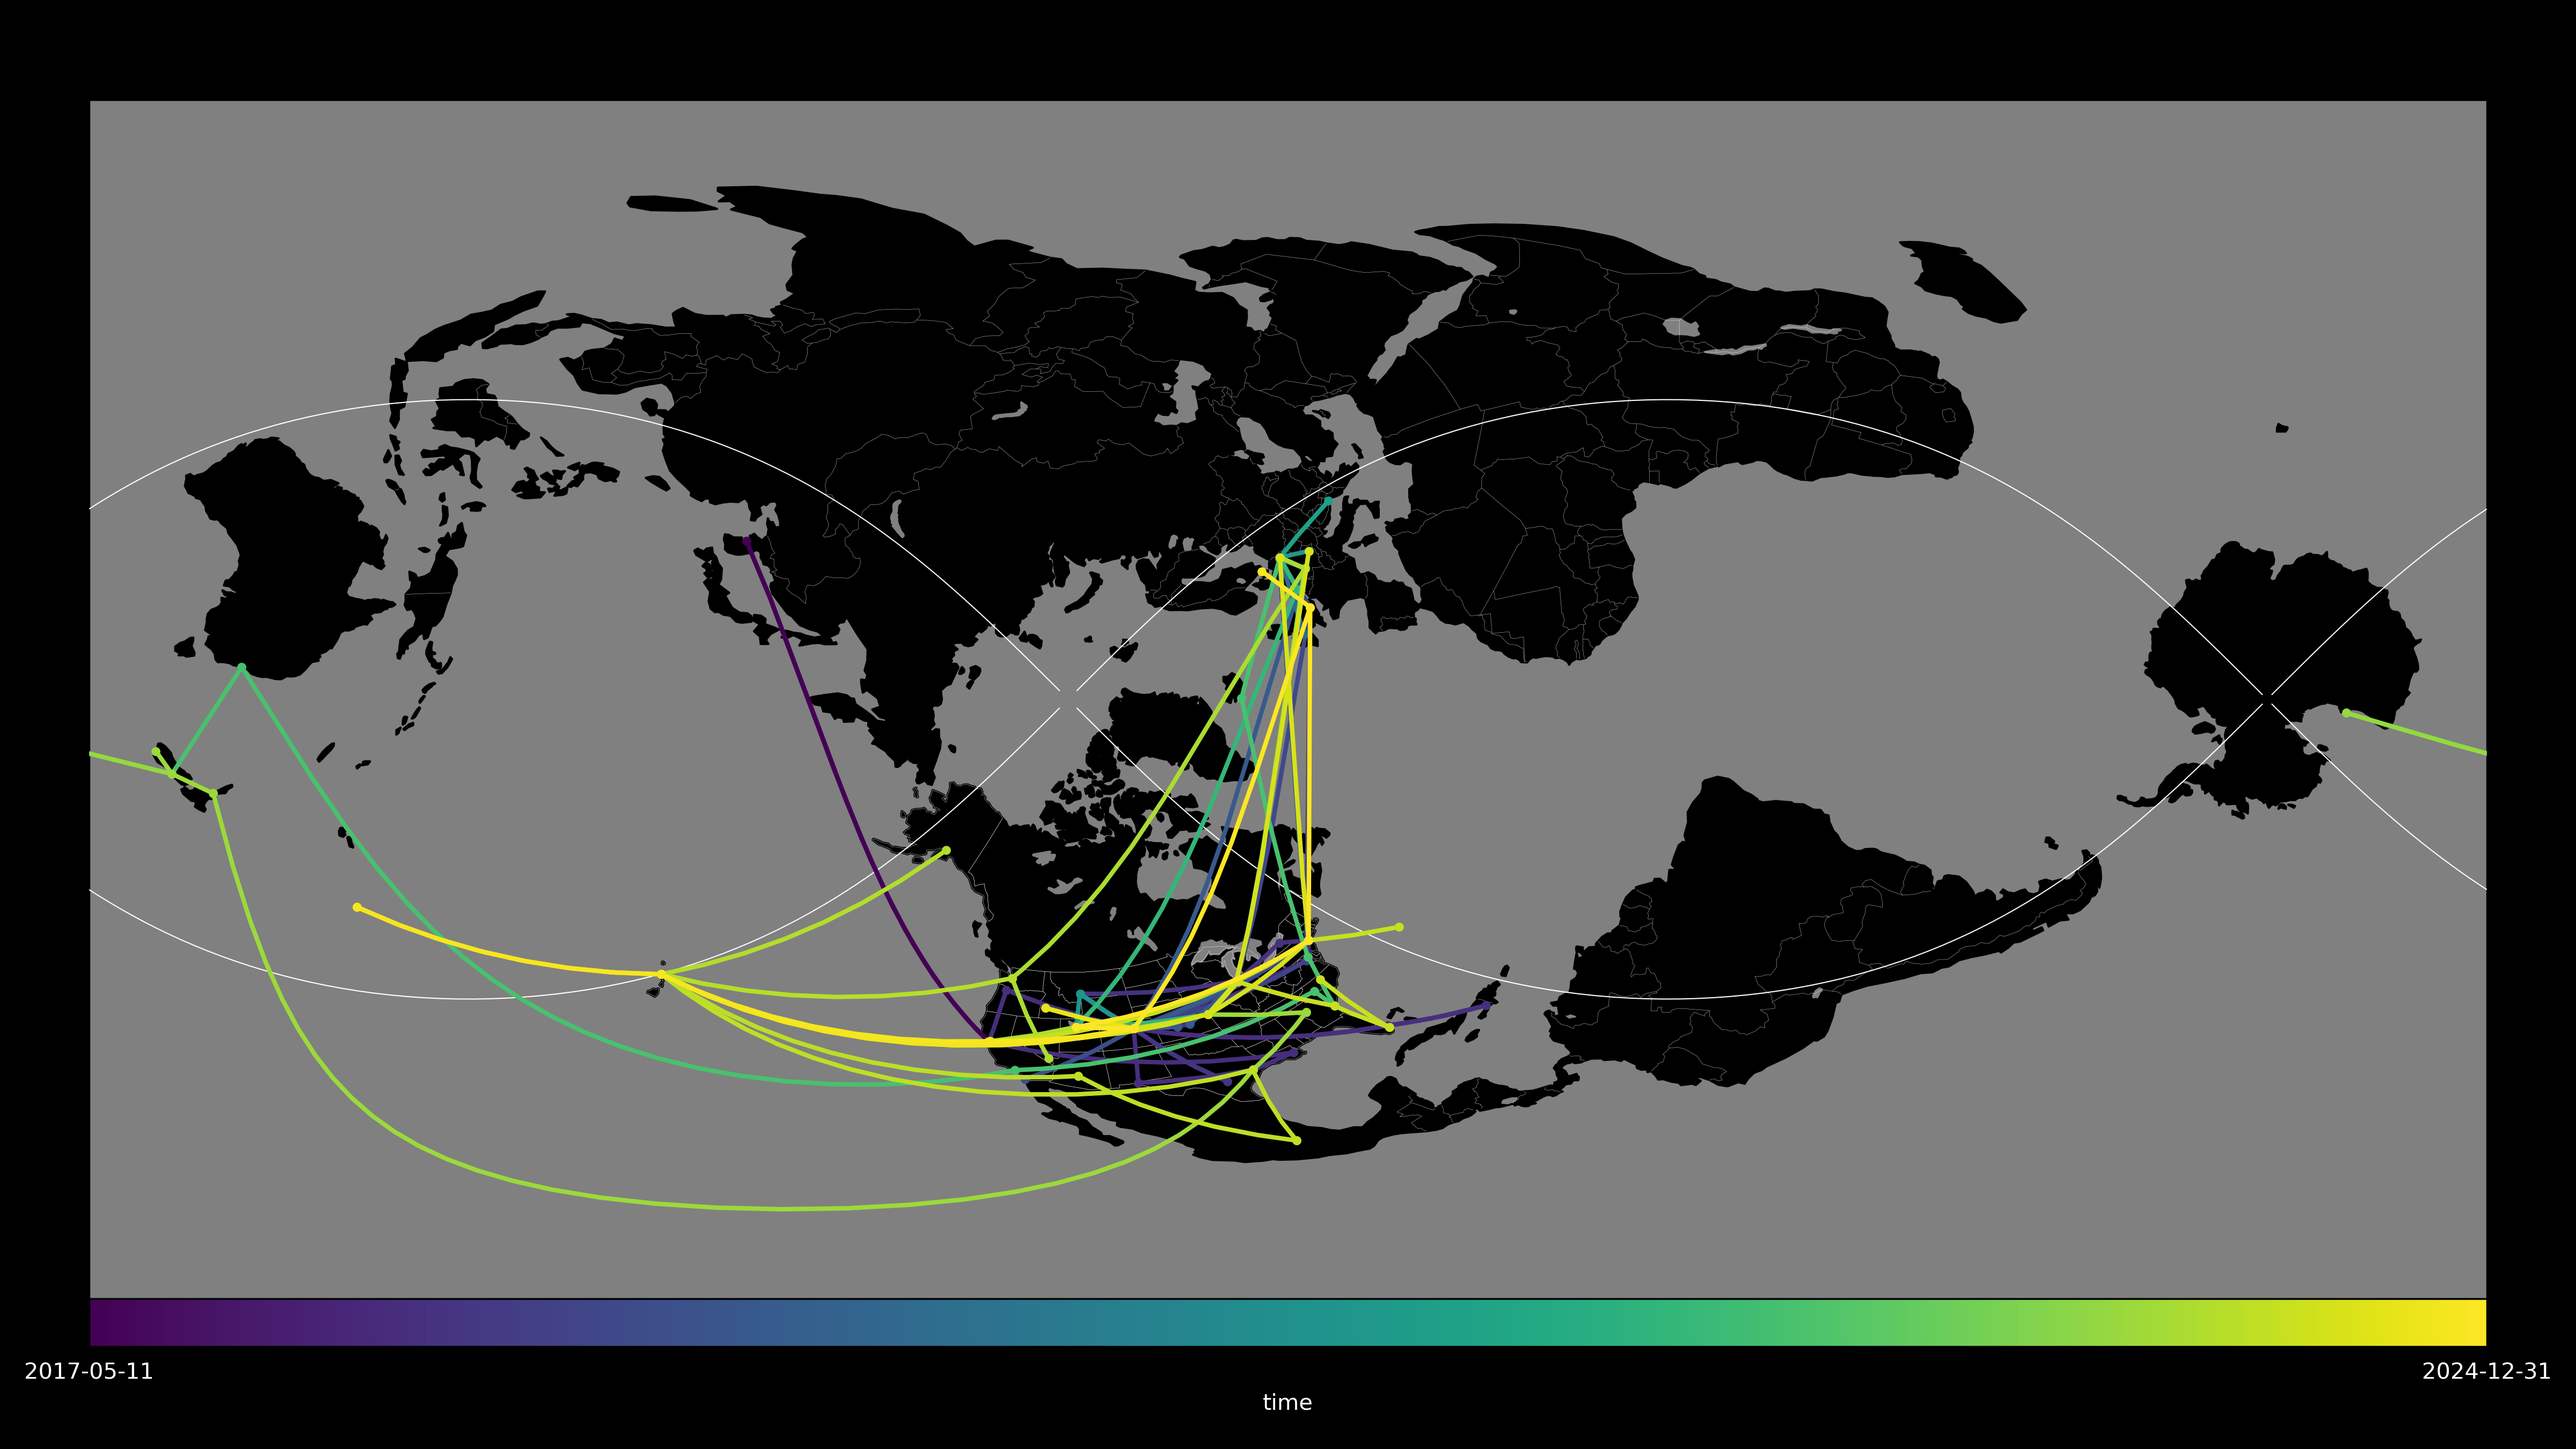
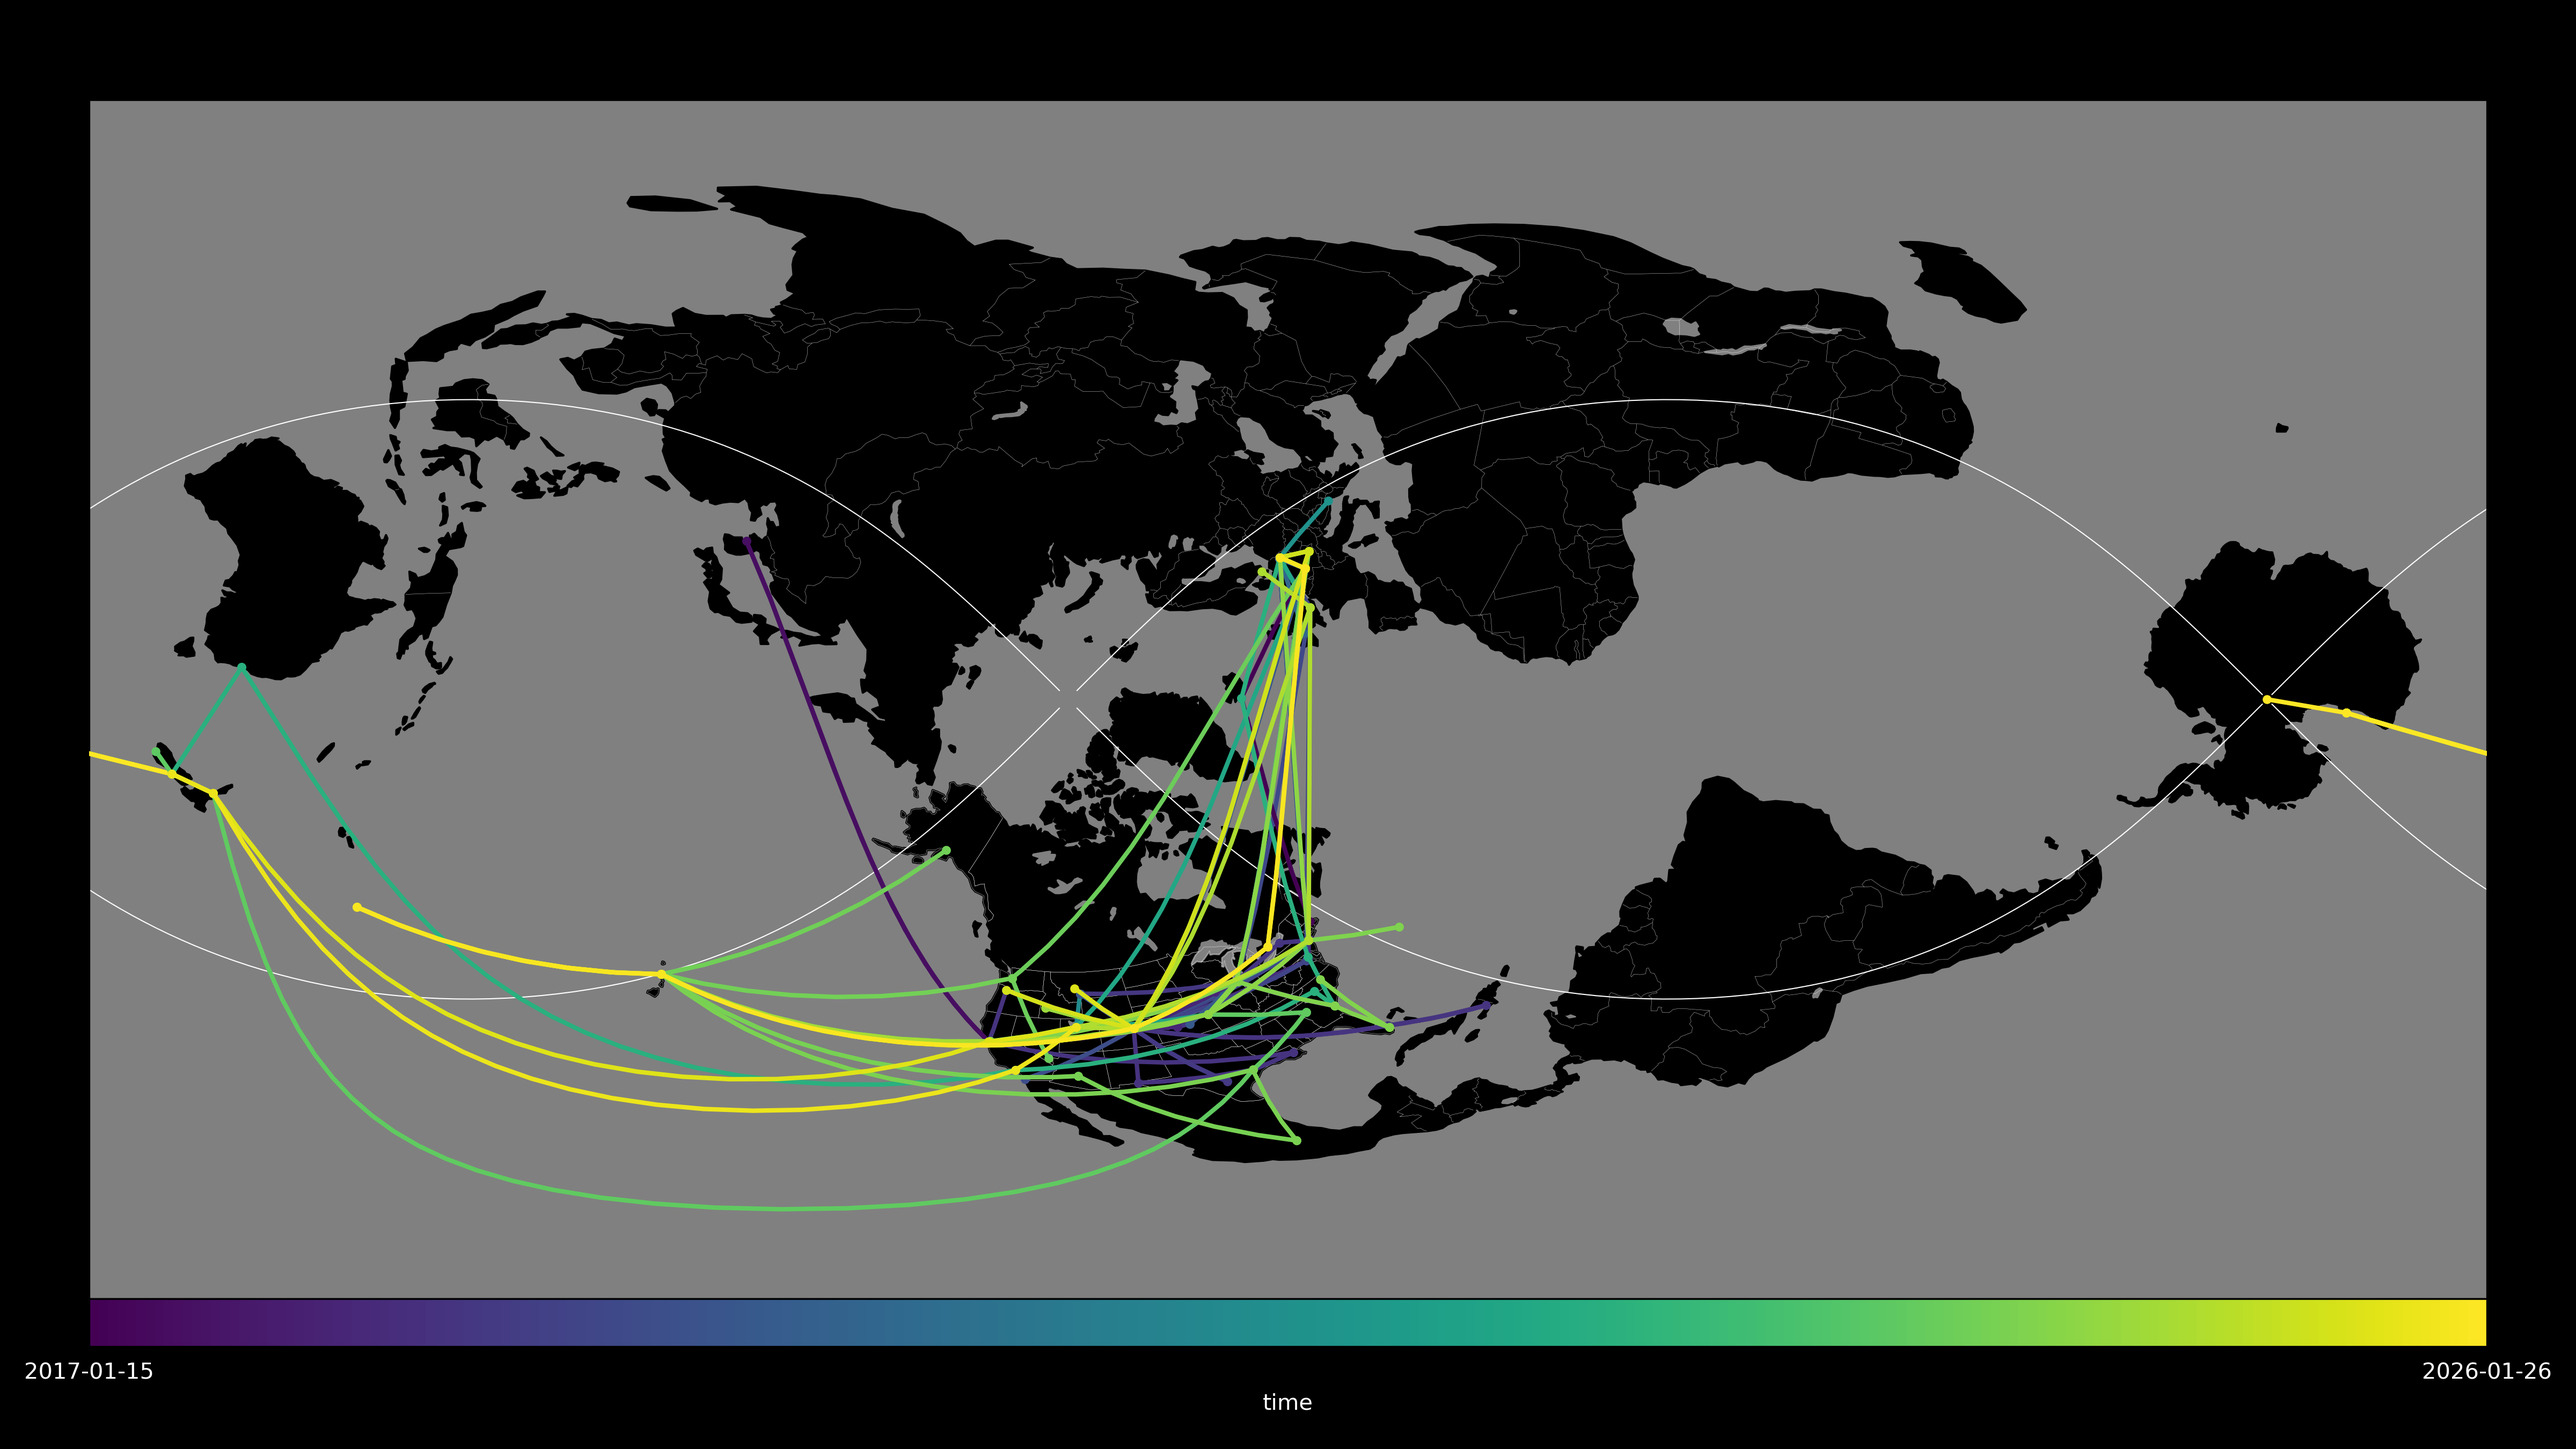
updated structure

diff --git a/where-ive-flown/whereiveflown.py b/where-ive-flown/whereiveflown.py
@@ -3,18 +3,27 @@ import datetime
 from pathlib import Path
 
 import numpy as np
+import pandas as pd
 import cartopy
 import cartopy.crs as ccrs
 import matplotlib.pyplot as plt
 import matplotlib.cm as cm
 import matplotlib as mpl
 
-from pyairports.airports import Airports
-airports = Airports()
 
+# https://ourairports.com/data/
+airports_csv = pd.read_csv(r'/media/longren/Lloyd Main/Projects/collections/other/airports-edited.csv',
+                           usecols=['iata_code', 'longitude_deg', 'latitude_deg'])
+airports = {}
+for i in range(len(airports_csv)):
+    iata = airports_csv.at[i, 'iata_code']
+    if not pd.isna(iata):
+        airports[iata] = {}
+        airports[iata]['lon'] = airports_csv.at[i, 'longitude_deg']
+        airports[iata]['lat'] = airports_csv.at[i, 'latitude_deg']
 
-img_dir = r'D:\Projects\collections\Boarding Passes'
-missing_fname = '.\missing_list.txt'
+img_dir = r'/media/longren/Lloyd Main/Projects/collections/Boarding Passes'
+missing_fname = 'missing_list.txt'
 
 def boarding_passes(img_dir):
     img_list = [str(x.stem) for x in Path(img_dir).glob('*_001.png')]
@@ -55,10 +64,16 @@ def mapping(origins, destinations, dates):
     colors = cmap(timedeltas / np.max(timedeltas))
     for origin,destination,color in zip(origins, destinations, colors):
         if len(origin) == 3:  # IATA
-            origin_lat = float(airports.airport_iata(origin).lat)
-            origin_lon = float(airports.airport_iata(origin).lon)
-            destination_lat = float(airports.airport_iata(destination).lat)
-            destination_lon = float(airports.airport_iata(destination).lon)
+            try:
+                origin_lat = float(airports[origin]['lat'])
+                origin_lon = float(airports[origin]['lon'])
+            except:
+                print('missing:', origin)
+            try:
+                destination_lat = float(airports[destination]['lat'])
+                destination_lon = float(airports[destination]['lon'])
+            except:
+                print('missing:', destination)
         else:  # already lat, lon
             origin_lat = float(origin.split(',')[0])
             origin_lon = float(origin.split(',')[1])

diff --git a/_unfinished/manned_spacecraft/main.py b/_unfinished/manned_spacecraft/main.py
@@ -1,0 +1,41 @@
+import numpy as np
+import matplotlib.pyplot as plt
+
+
+fnames = [
+    'apollo_8.txt',
+    'apollo_9.txt',
+    'apollo_10.txt',
+    'apollo_11.txt',
+    'apollo_12.txt',
+    'artemis_I.txt',
+    'artemis_II.txt',
+    'tiangong-1.txt',
+    'international_space_station.txt',
+    'mir.txt',
+    'moon.txt',
+    'earth.txt',
+]
+
+for fname in fnames:
+
+    Xs, Ys, Zs = [], [], []
+
+    with open('data/NASA_Horizons/' + fname, 'r') as f:
+        read_data = False
+        for row in f:
+            if len(row.split('$$EOE')) > 1:
+                read_data = False
+            if read_data:
+                X, Y, Z = row.split(',')[2:5]
+                Xs.append(float(X))
+                Ys.append(float(Y))
+                Zs.append(float(Z))
+            if len(row.split('$$SOE')) > 1:
+                read_data = True
+
+    plt.scatter(Xs, Ys, label=fname.split('.txt')[0], s=1)
+
+plt.scatter(0, 0, c='k', s=10)
+plt.legend()
+plt.savefig('plot.png')

diff --git a/_unfinished/noaa-aircraft/main.py b/_unfinished/noaa-aircraft/main.py
@@ -1,0 +1,15 @@
+
+from traffic.data import airports
+print(airports['KLAL'].name)
+print(airports['KLAL'].latlon)
+
+from traffic.data import opensky
+flight = opensky.history(
+    "2017-02-05 15:45",
+    stop="2017-02-05 16:45",
+    callsign="EZY158T",
+    # returns a Flight instead of a Traffic
+    return_flight=True
+)
+print(flight)
+
